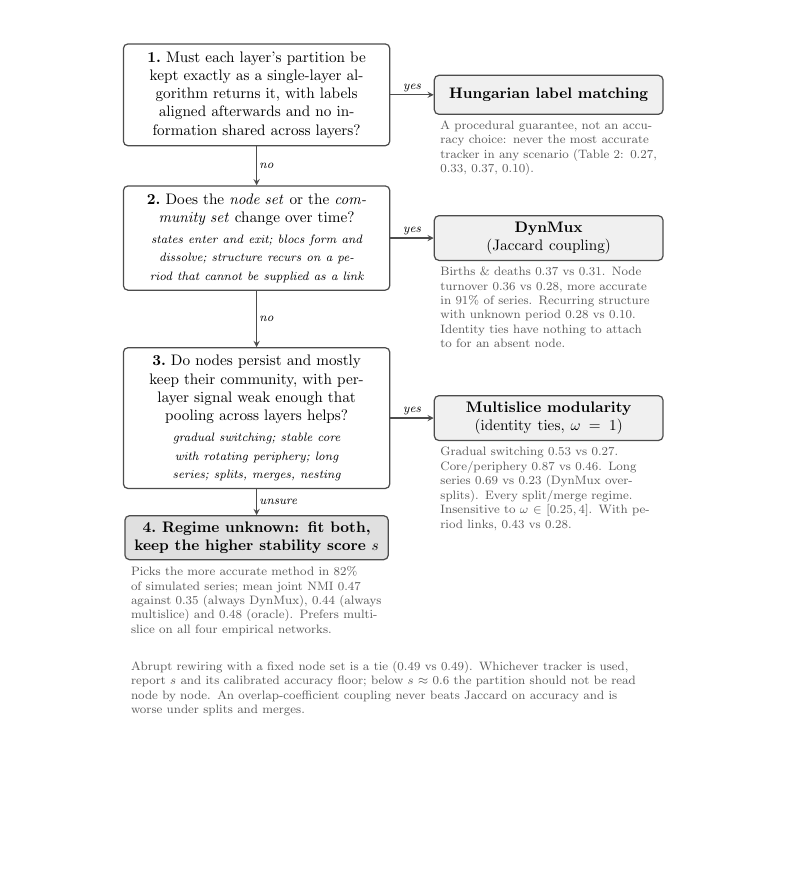
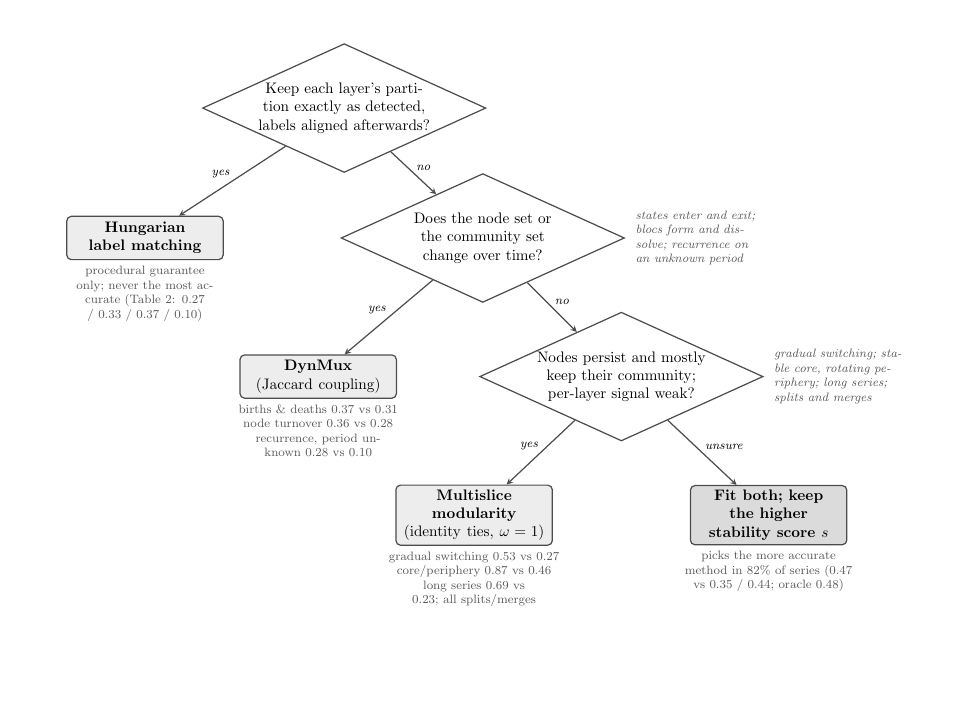
manuscript: decision-tree figure in tree layout (root at top, yes/no branches)
Claude-Session: https://claude.ai/code/session_01MQZanzzgK321BMD4XZ2AGj

Changed region(s): [[0.0606, 0.0303, 0.9394, 0.8485], [0.4848, 0.0909, 0.8182, 0.2121], [0.8182, 0.2424, 0.8485, 0.303]]

diff --git a/manuscript/edits_20260921/fig_decision_tree.tex b/manuscript/edits_20260921/fig_decision_tree.tex
@@ -1,48 +1,49 @@
-%% fig_decision_tree.tex  --  decision tree for DynMux / multislice / Hungarian.
-%% Use as \input{figs/fig_decision_tree.tex} inside a figure environment; the
-%% preamble already loads tikz with shapes.geometric and positioning. Numbers
-%% are mean joint NMI from the Sept 21 rerun (multislice rows may move by
-%% ~0.01 after the restart rerun).
+%% fig_decision_tree.tex  --  decision tree for choosing a tracker.
+%% \input{figs/fig_decision_tree.tex} inside a figure environment; needs only
+%% tikz + positioning (already in the preamble). Root at the top, questions
+%% in diamonds, methods in shaded leaves, one line of evidence (mean joint
+%% NMI, this method vs runner-up) under each leaf.
 \begin{tikzpicture}[
-  font=\small,
-  node distance=6mm and 10mm,
-  q/.style={rectangle, rounded corners=3pt, draw=black!70, thick, fill=white,
-            text width=58mm, align=center, inner sep=5pt, font=\small},
-  m/.style={rectangle, rounded corners=3pt, draw=black!70, thick, fill=black!6,
-            text width=50mm, align=center, minimum height=9mm, inner sep=4pt,
-            font=\small\bfseries},
-  ev/.style={rectangle, draw=none, text width=50mm, align=left,
-             font=\scriptsize\color{black!65}, inner sep=1pt},
-  arr/.style={->, thick, draw=black!70, >=stealth},
+  font=\small, >=stealth,
+  q/.style={diamond, aspect=2.2, draw=black!70, thick, fill=white,
+            text width=40mm, align=center, inner sep=0pt, font=\small},
+  leaf/.style={rectangle, rounded corners=3pt, draw=black!70, thick, fill=black!7,
+               text width=34mm, align=center, minimum height=10mm, inner sep=3pt,
+               font=\small\bfseries},
+  ev/.style={text width=40mm, align=center, font=\scriptsize\color{black!65}, inner sep=1pt},
+  arr/.style={->, thick, draw=black!70},
   lab/.style={font=\scriptsize\itshape, fill=white, inner sep=1.5pt}
 ]
+\usetikzlibrary{shapes.geometric}
 
-%% left column: questions
-\node[q] (q1) {\textbf{1.}~Must each layer's partition be kept exactly as a single-layer algorithm returns it, with labels aligned afterwards and no information shared across layers?};
-\node[q, below=9mm of q1] (q2) {\textbf{2.}~Does the \emph{node set} or the \emph{community set} change over time?\\[2pt]{\scriptsize\itshape states enter and exit; blocs form and dissolve; structure recurs on a period that cannot be supplied as a link}};
-\node[q, below=13mm of q2] (q3) {\textbf{3.}~Do nodes persist and mostly keep their community, with per-layer signal weak enough that pooling across layers helps?\\[2pt]{\scriptsize\itshape gradual switching; stable core with rotating periphery; long series; splits, merges, nesting}};
-\node[m, below=of q3, fill=black!12, text width=58mm] (both) {\textbf{4.}~Regime unknown: fit both, keep the higher stability score $s$};
-\node[ev, below=1mm of both, text width=58mm] (bothev) {Picks the more accurate method in 82\% of simulated series; mean joint NMI 0.47 against 0.35 (always DynMux), 0.44 (always multislice) and 0.48 (oracle). Prefers multislice on all four empirical networks.};
+%% level 0
+\node[q] (q1) at (0, 0) {Keep each layer's partition exactly as detected, labels aligned afterwards?};
 
-%% right column: methods + evidence
-\node[m, right=of q1] (hung) {Hungarian label matching};
-\node[ev, below=1mm of hung] (hungev) {A procedural guarantee, not an accuracy choice: never the most accurate tracker in any scenario (Table~2: 0.27, 0.33, 0.37, 0.10).};
+%% level 1
+\node[leaf] (hung) at (-4.6, -3.0) {Hungarian label matching};
+\node[ev, below=1mm of hung] {procedural guarantee only; never the most accurate (Table~2: 0.27 / 0.33 / 0.37 / 0.10)};
+\node[q] (q2) at (3.2, -3.0) {Does the node set or the community set change over time?};
 
-\node[m, right=of q2] (dyn) {DynMux\\{\normalfont\small(Jaccard coupling)}};
-\node[ev, below=1mm of dyn] (dynev) {Births \& deaths 0.37 vs 0.31. Node turnover 0.36 vs 0.28, more accurate in 91\% of series. Recurring structure with unknown period 0.28 vs 0.10. Identity ties have nothing to attach to for an absent node.};
+%% level 2
+\node[leaf] (dyn) at (-0.6, -6.2) {DynMux\\{\normalfont\small(Jaccard coupling)}};
+\node[ev, below=1mm of dyn] {births \& deaths 0.37 vs 0.31\\node turnover 0.36 vs 0.28\\recurrence, period unknown 0.28 vs 0.10};
+\node[q] (q3) at (6.4, -6.2) {Nodes persist and mostly keep their community; per-layer signal weak?};
 
-\node[m, right=of q3] (ms) {Multislice modularity\\{\normalfont\small(identity ties, $\omega = 1$)}};
-\node[ev, below=1mm of ms] (msev) {Gradual switching 0.53 vs 0.27. Core/periphery 0.87 vs 0.46. Long series 0.69 vs 0.23 (DynMux over-splits). Every split/merge regime. Insensitive to $\omega \in [0.25, 4]$. With period links, 0.43 vs 0.28.};
+%% level 3
+\node[leaf] (ms) at (3.0, -9.4) {Multislice modularity\\{\normalfont\small(identity ties, $\omega = 1$)}};
+\node[ev, below=1mm of ms] {gradual switching 0.53 vs 0.27\\core/periphery 0.87 vs 0.46\\long series 0.69 vs 0.23; all splits/merges};
+\node[leaf, fill=black!14] (both) at (9.8, -9.4) {Fit both; keep the higher stability score $s$};
+\node[ev, below=1mm of both] {picks the more accurate method in 82\% of series (0.47 vs 0.35 / 0.44; oracle 0.48)};
 
-%% arrows
-\draw[arr] (q1) -- node[lab, above] {yes} (hung);
-\draw[arr] (q1) -- node[lab, right] {no} (q2);
-\draw[arr] (q2) -- node[lab, above] {yes} (dyn);
-\draw[arr] (q2) -- node[lab, right] {no} (q3);
-\draw[arr] (q3) -- node[lab, above] {yes} (ms);
-\draw[arr] (q3) -- node[lab, right] {unsure} (both);
+%% edges
+\draw[arr] (q1) -- node[lab, above left] {yes} (hung);
+\draw[arr] (q1) -- node[lab, above right] {no} (q2);
+\draw[arr] (q2) -- node[lab, above left] {yes} (dyn);
+\draw[arr] (q2) -- node[lab, above right] {no} (q3);
+\draw[arr] (q3) -- node[lab, above left] {yes} (ms);
+\draw[arr] (q3) -- node[lab, above right] {unsure} (both);
 
-%% footnote
-\node[ev, text width=118mm, below=5mm of bothev.south west, anchor=north west, xshift=0mm]
-  {Abrupt rewiring with a fixed node set is a tie (0.49 vs 0.49). Whichever tracker is used, report $s$ and its calibrated accuracy floor; below $s \approx 0.6$ the partition should not be read node by node. An overlap-coefficient coupling never beats Jaccard on accuracy and is worse under splits and merges.};
+%% examples under each question (what the question means in practice)
+\node[ev, text width=30mm, right=2mm of q2.east, align=left, font=\scriptsize\itshape\color{black!65}] {states enter and exit; blocs form and dissolve; recurrence on an unknown period};
+\node[ev, text width=30mm, right=2mm of q3.east, align=left, font=\scriptsize\itshape\color{black!65}] {gradual switching; stable core, rotating periphery; long series; splits and merges};
 \end{tikzpicture}
